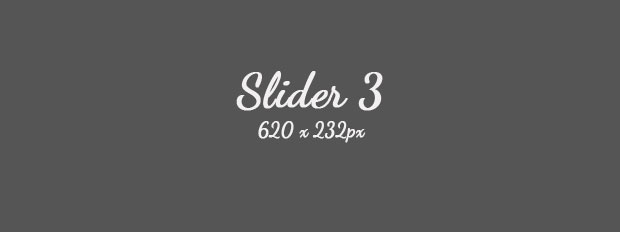
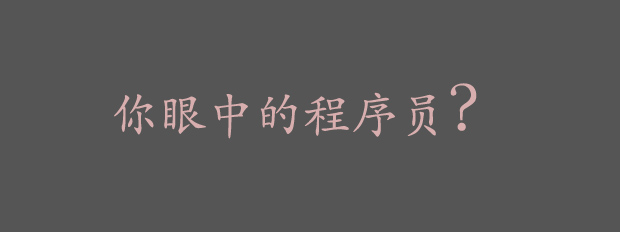
个人主页

Changed region(s): [[0.1839, 0.3017, 0.7661, 0.6034]]

diff --git a/个人主页/index.html b/个人主页/index.html
@@ -100,8 +100,8 @@
                 <div class="ribbon"></div>
 
                 <div id="slider" class="nivoSlider"><img src="style/images/slider1.jpg" alt="" title=
-                "This is an example of a caption" /> <img src="style/images/slider2.jpg" alt="" /> <img src=
-                "style/images/slider3.jpg" alt="" /></div>
+                "程序员的样子" /> <img src="style/images/slider2.jpg" alt="开发者联盟" /> <img src=
+                "style/images/slider3.jpg" alt="你眼中的程序员?" /></div>
               </div><script type="text/javascript">
           //<![CDATA[
               $(window).load(function() {
@@ -111,24 +111,27 @@
               </script>
             </div>
 
-            <p>Lorem ipsum dolor sit amet, consectetur adipiscing elit. Nam elementum consequat sem, nec tincidunt enim
-            feugiat sed. Vestibulum ante ipsum primis in faucibus orci luctus et ultrices posuere cubilia Curae; Sed
-            egestas mattis tortor, quis auctor orci commodo id. In hac habitasse platea dictumst. Integer sed nisi
-            nibh. Integer neque mi, pellentesque ut adipiscing ultrices, egestas vel ligula. Integer interdum ultrices
-            turpis.</p>
+            <p>程序员不是你们眼中的程序猿。程序猿是一种非常特殊的、可以从事程序开发、维护的动物。一般分为程序设计猿和程序编码猿，但两者的界限并不非常清楚，都可以进行开发、维护工作，特别是在中国，而且最重要的一点，二者都是一种非常悲剧(加班)的存在。
+              --百度百科
+            </p>
 
-            <p>Aliquam porttitor faucibus rhoncus. Aliquam erat volutpat. Vestibulum molestie fringilla mollis. Fusce
-            eu neque arcu. Donec blandit imperdiet mollis. Etiam suscipit nisl eget libero aliquet tincidunt.</p>
+            <p>据说是关于程序猿的7个最屌丝的特征……</p>
             <!--Bullet List -->
 
-            <ul class="bullet">
-              <li>Nullam luctus neque sed urna mattis interdum. In hac habitasse platea dictumst.</li>
+            <ul class="bullet1">
+              <li>颜值与技术水平成反比</li>
 
-              <li>Duis enim lectus euismod non porttitor non, vulputate eget ipsum. Primis in faucibus orci luctus et
-              ultrices posuere.</li>
+              <li>邋遢</li>
 
-              <li>Proin imperdiet arcu in consequat malesuada, <a href="#" title="This is a Tool Tip" class=
-              "link">hover over me to see a tool tip</a>.</li>
+              <li>注定孤独一生</li>
+
+              <li>智商高 情商低</li>
+
+              <li>宅</li>
+
+              <li>加班加到地老天荒</li>
+
+              <li>直男癌</li>
             </ul>
           </div><!-- Introduction Page Ends -->
           <!-- Resume Section Starts -->
@@ -157,9 +160,9 @@
 
                 <div class="wrap">
                   <div class="notes_img">
-                    <div class="note"><img src="style/images/photo1.jpg" alt="" /></div>
+                    <div class="note"><img src="style/images/img1.jpg" alt="" /></div>
 
-                    <div class="note"><img src="style/images/weixin.jpg" alt="" /></div>
+                    <div class="note"><img src="style/images/img2.jpg" alt="" /></div>
                   </div>
                 </div>
                 <ul class="bullet">
@@ -167,23 +170,11 @@
                   <li>政治面貌：中共党员</li>
                   <li>手&nbsp;&nbsp;&nbsp;&nbsp;&nbsp;&nbsp;&nbsp机：18612596175</li>
                   <li>微&nbsp;&nbsp;&nbsp;&nbsp;&nbsp;&nbsp;&nbsp信：liu_906745119</li>
+                  <li>电子邮箱：liuht_vip@163.com</li>
                   <li>通讯地址：北京市昌平区沙河镇西沙屯桥西中石油科技园A座</li>
                 </ul>
                 <br />
                 <br />
-
-                <p>Aliquam porttitor faucibus rhoncus. Aliquam erat volutpat. Vestibulum molestie fringilla mollis.
-                Fusce eu neque arcu. Donec blandit imperdiet mollis. Etiam suscipit nisl eget libero aliquet
-                tincidunt.</p><!--Bullet List -->
-
-                <ul class="bullet">
-                  <li>Nullam luctus neque sed urna mattis interdum.</li>
-
-                  <li>Duis enim lectus euismod non porttitor non, vulputate eget ipsum.</li>
-
-                  <li>Proin imperdiet arcu in consequat malesuada, <a href="#" title="This is a Tool Tip" class=
-                  "link">hover over me to see a tool tip</a>.</li>
-                </ul>
               </div><!-- Biography Page Ends -->
               <!-- Employment Page Starts -->
 
@@ -229,41 +220,40 @@
 
               <div>
                 <div class="pen">
-                  <h2>Central St. Martins, London - B.A Hons. in Graphic Design</h2>
+                  <h2>中国石油大学(华东)</h2>
 
-                  <h4>June 2009 / June 2011</h4>
-
-                  <p>Contrary to popular belief, Lorem Ipsum is not simply random text. orem ipsum dolor sit amet,
-                  consectetur adipiscing elit. Nam elementum consequat sem, nec tincidunt enim feugiat sed. Vestibulum
-                  ante ipsum primis in faucibus orci luctus et ultrices posuere cubilia Curae; Sed egestas mattis
-                  tortor, quis auctor orci commodo</p>
+                  <h4>2011-09 / 2014-07</h4>
+                  <ul class="bullet1">
+                      <li>学&nbsp;&nbsp;&nbsp;&nbsp;&nbsp;&nbsp;&nbsp;历：硕士研究生</li>
+                      <li>专&nbsp;&nbsp;&nbsp;&nbsp;&nbsp;&nbsp;&nbsp;业：计算机科学与技术</li>
+                      <li>方&nbsp;&nbsp;&nbsp;&nbsp;&nbsp;&nbsp;&nbsp;向：软件开发、人工智能</li>
+                      <li>在校项目：锅炉自动预警系统；油井数据综合查询系统；移动合同管理系统</li>
+                      <li>奖&nbsp;&nbsp;&nbsp;&nbsp;&nbsp;&nbsp;&nbsp;励：校一等奖学金</li>
+                    </ul>
+                  <p>中国石油大学（华东）是教育部直属全国重点大学，是国家“211工程”和“985工程优势学科创新平台”高校，
+                      是国家“双一流”世界一流学科建设高校、高水平行业特色大学优质资源共享联盟成员高校，
+                      是“卓越工程师教育培养计划”、“111计划”、“国家建设高水平大学公派研究生项目”、
+                      “千人计划”重点建设的行业特色型大学入选高校之一。</p>
                 </div>
 
                 <div class="divider"></div>
 
                 <div class="pen">
-                  <h2>L.C.P, London - Foundation Art</h2>
-
-                  <h4>September 2007 / June 2009</h4>
-
-                  <p>Contrary to popular belief, Lorem Ipsum is not simply random text. orem ipsum dolor sit amet,
-                  consectetur adipiscing elit. Nam elementum consequat sem, nec tincidunt enim feugiat sed. Vestibulum
-                  ante ipsum primis in faucibus orci luctus et ultrices posuere cubilia Curae; Sed egestas mattis
-                  tortor, quis auctor orci commodo.</p>
+                    <h2>青岛科技大学</h2>
+                    
+                    <h4>20107-09 / 2011-07</h4>
+                    <ul class="bullet1">
+                        <li>学&nbsp;&nbsp;&nbsp;&nbsp;&nbsp;&nbsp;&nbsp;历：本科</li>
+                        <li>专&nbsp;&nbsp;&nbsp;&nbsp;&nbsp;&nbsp;&nbsp;业：计算机科学与技术</li>
+                        <li>方&nbsp;&nbsp;&nbsp;&nbsp;&nbsp;&nbsp;&nbsp;向：信息工程</li>
+                        <li>奖&nbsp;&nbsp;&nbsp;&nbsp;&nbsp;&nbsp;&nbsp;励：国家励志奖学金</li>
+                      </ul>
+                    <p>青岛科技大学（Qingdao University of Science and Technology） 位于山东省青岛市，
+                      是原化学工业部直属重点高校 ，入选国家“111计划”，
+                      是国内第一家设立橡胶专业的高等院校，亚洲唯一的橡胶专业领域高校 。</p>
                 </div>
 
                 <div class="divider"></div>
-
-                <div class="pen">
-                  <h2>New College, London - A Levels</h2>
-
-                  <h4>September 2006 / June 2007</h4>
-
-                  <p>Contrary to popular belief, Lorem Ipsum is not simply random text. orem ipsum dolor sit amet,
-                  consectetur adipiscing elit. Nam elementum consequat sem, nec tincidunt enim feugiat sed. Vestibulum
-                  ante ipsum primis in faucibus orci luctus et ultrices posuere cubilia Curae; Sed egestas mattis
-                  tortor, quis auctor orci commodo.</p>
-                </div>
               </div><!-- Education Page Ends -->
               <!-- Skills Page Starts -->
 

diff --git a/个人主页/style.css b/个人主页/style.css
@@ -112,6 +112,8 @@ button::-moz-focus-inner { border:0; }
 /* bulleted list ++++++++++++++++++++++++++++++++++++++++++++ */
 ul.bullet { padding: 10px 0 20px 0; display: block; overflow: hidden; }
 ul.bullet li { line-height: 47px; list-style: none; display: block; background: transparent url(style/images/bullet.jpg) no-repeat left 21px; padding-left: 15px; }
+ul.bullet1 { padding: 10px 0 20px 0; display: block; overflow: hidden; }
+ul.bullet1 li { line-height: 30px; list-style: none; display: block; background: transparent url(style/images/bullet.jpg) no-repeat left 13px; padding-left: 15px; }
 
 /* check list ++++++++++++++++++++++++++++++++++++++++++++ */
 ul.check_list { padding: 0 0 20px 0; display: block; overflow: hidden; }

diff --git a/index.md b/index.md
@@ -1,3 +1,3 @@
-##### [关于我](https://liuhongtai.github.io/%E4%B8%AA%E4%BA%BA%E4%B8%BB%E9%A1%B5/index.html "关于我")
+###### [关于我](https://liuhongtai.github.io/%E4%B8%AA%E4%BA%BA%E4%B8%BB%E9%A1%B5/index.html "关于我")
 
-##### [Git教程](https://liuhongtai.github.io/Git教程/index.html "Git教程")
+###### [Git教程](https://liuhongtai.github.io/Git教程/index.html "Git教程")
